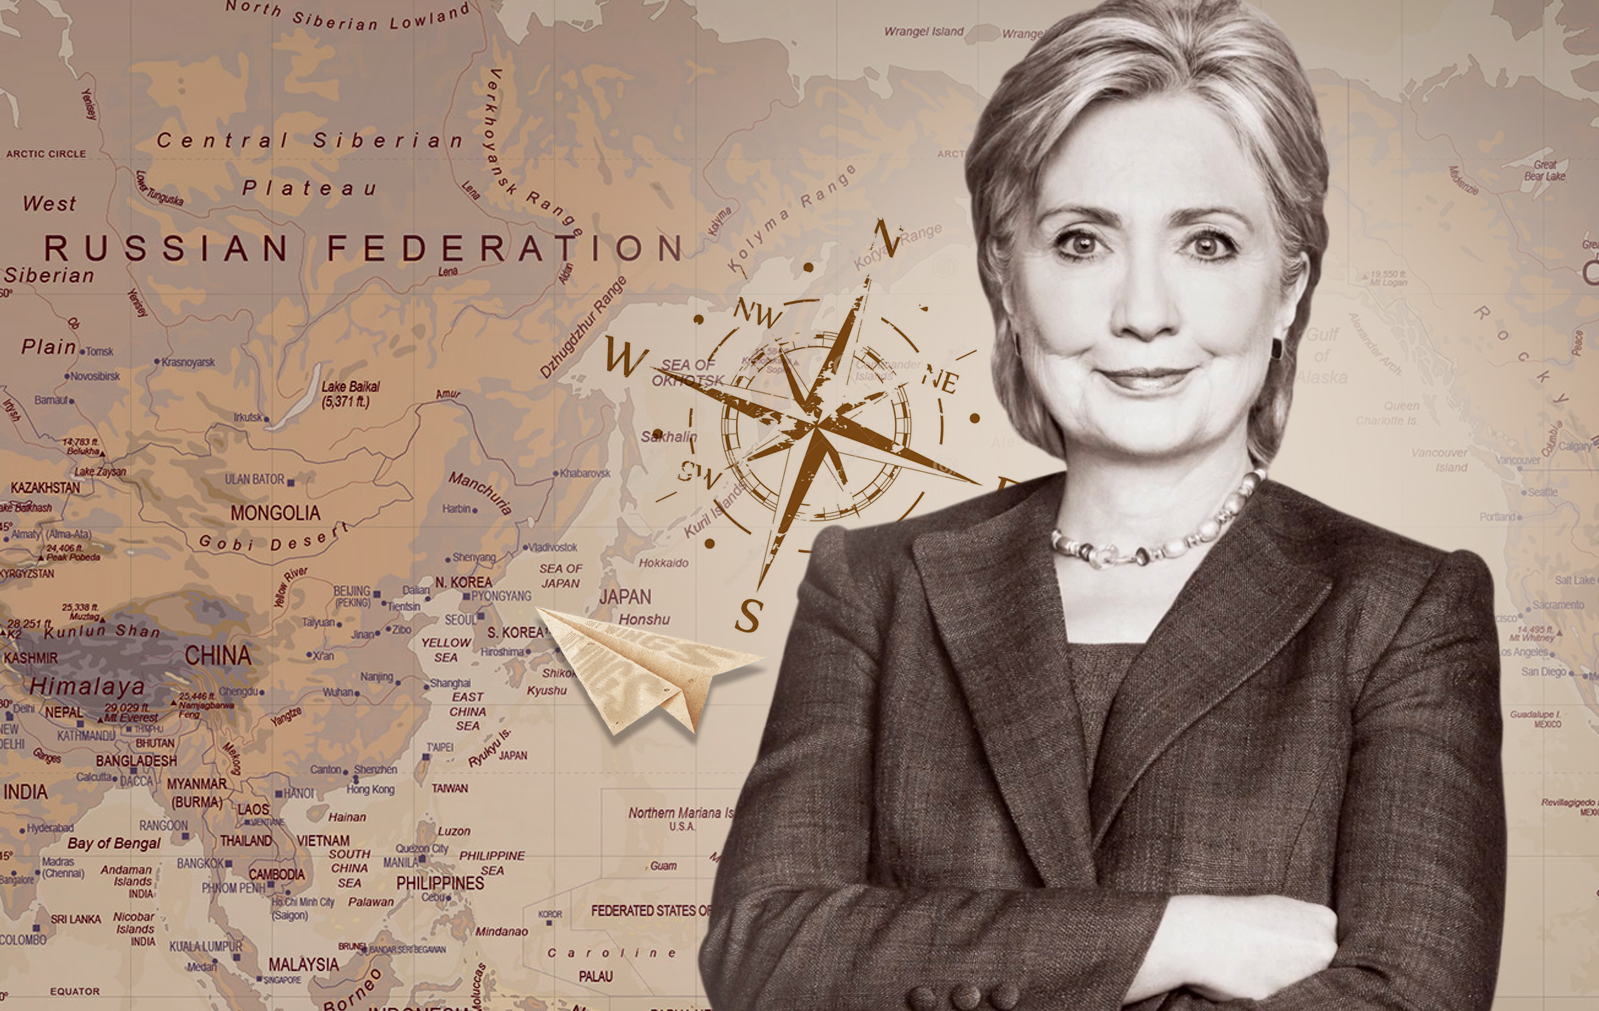
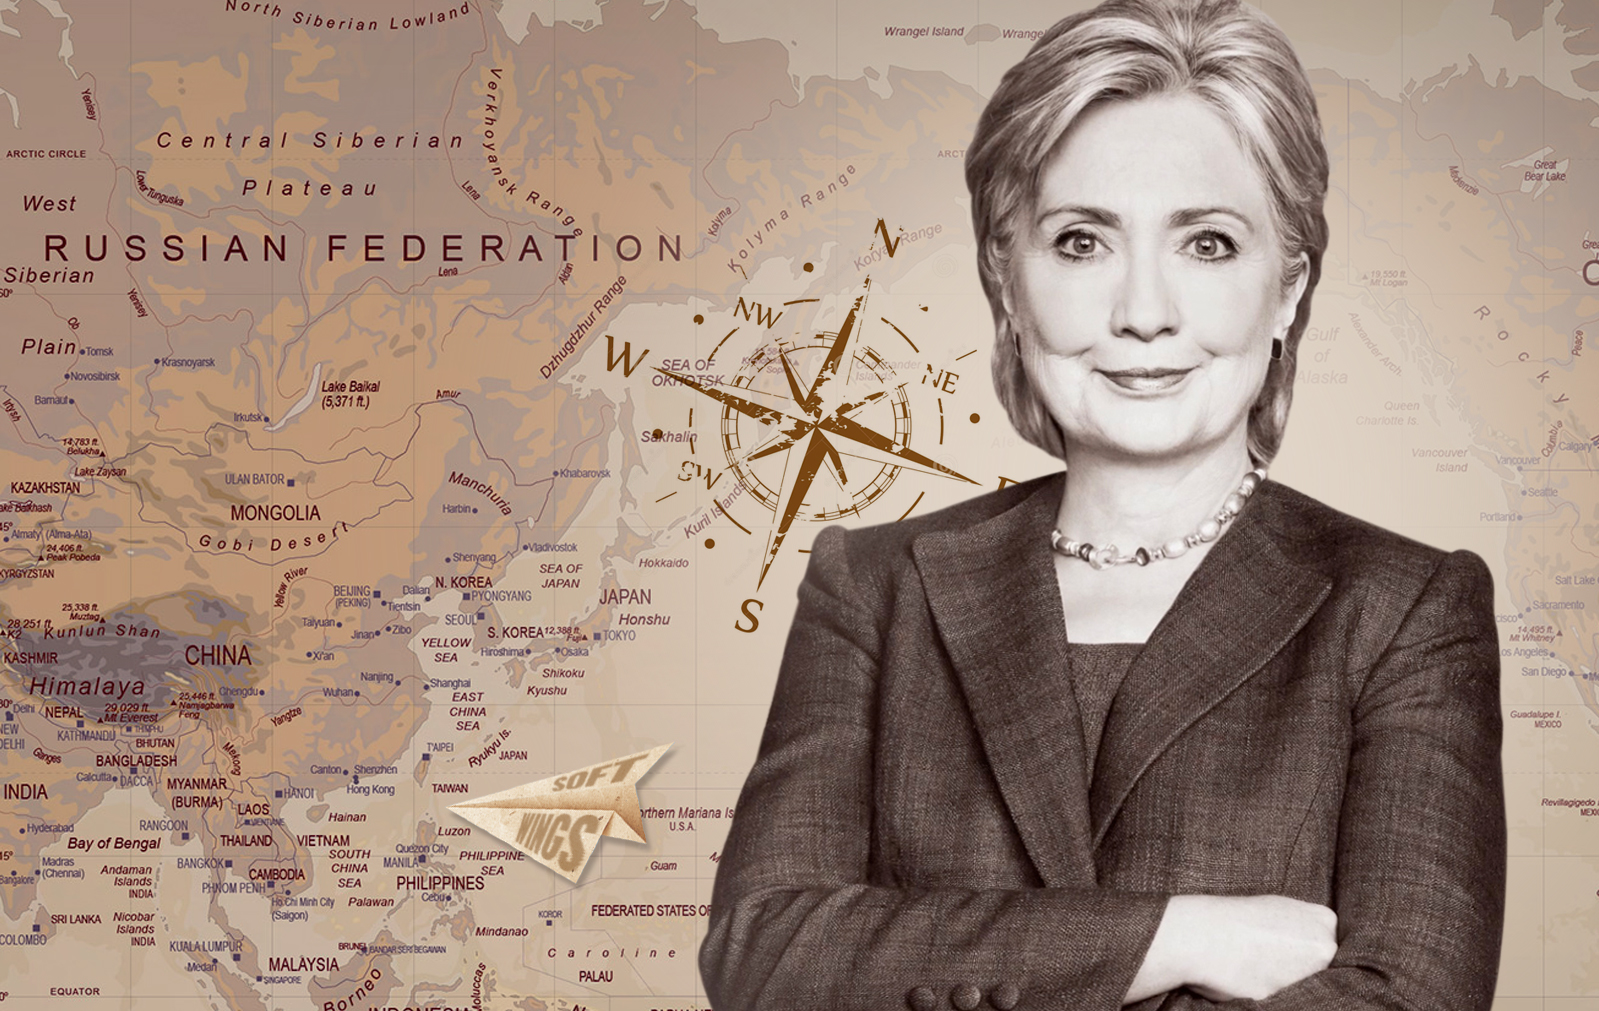
them tieu de bai viet, share

Changed region(s): [[0.2758, 0.5826, 0.4903, 0.8892]]

diff --git a/index.html b/index.html
@@ -77,7 +77,9 @@
 
                             <h3 class="game-title">Soft Wings</h3>
                             <p class="game-slogan">
-                                "Everyone needs a champion."
+                                Everyone needs a champion.
+                                <br/>
+                                <span style="font-style: italic">Soft Wings endorses Hillary Clinton for President</span>
                             </p>
 
                             <ul class="news-list">
@@ -102,7 +104,7 @@
                                             <div class="img-thumbnail" style="background-image: url('images/softwings/icon_paper_wings-358x358.png')"></div>
                                         </div>
                                         <div class="news-content">
-                                            <h4 class="title">Play Games and Save the World</h4>
+                                            <h4 class="title">Play Games for a Better World</h4>
 
                                             <p class="short-description">
                                                 No fire, no killing, no violence- but still you will feel the vulnerability in your hands.
@@ -116,7 +118,7 @@
                                             <div class="img-thumbnail" style="background-image: url('images/softwings/hillary4asia.jpg')"></div>
                                         </div>
                                         <div class="news-content">
-                                            <h4 class="title">Soft Wings - Clinton2016's Asian Helping Hands</h4>
+                                            <h4 class="title">Play Soft Wings. Endorse Hillary Clinton</h4>
 
                                             <p class="short-description">
                                                 Soft Wings advocates international engagement in the maintenance of peace and security in Asia-Pacific.
@@ -634,6 +636,7 @@ print 'It took ' + i + ' iterations to sort the deck.';</code></pre>
 
 				</ul>
 			</footer>
-
+        <!-- Go to www.addthis.com/dashboard to customize your tools -->
+        <script type="text/javascript" src="//s7.addthis.com/js/300/addthis_widget.js#pubid=ra-553634c10b1f4aa4" async="async"></script>
 	</body>
 </html>

diff --git a/hillary-and-soft-wings.html b/hillary-and-soft-wings.html
@@ -30,9 +30,6 @@
 
         <!--[if lte IE 8]><link rel="stylesheet" href="css/ie/v8.css" /><![endif]-->
 
-        <script type="text/javascript">var switchTo5x=true;</script>
-        <script type="text/javascript" src="http://w.sharethis.com/button/buttons.js"></script>
-        <script type="text/javascript" src="http://s.sharethis.com/loader.js"></script>
 	</head>
 	<body id="top">
 
@@ -54,7 +51,10 @@
 
                             <div class="content">
                                 <img src="images/sw.jpg" class="responsive">
+                                <h3 class="title">Play Soft Wings for a Better World</h3>
 
+                                <!-- Go to www.addthis.com/dashboard to customize your tools -->
+                                <div class="addthis_sharing_toolbox"></div>
                                 <p>
                                     You have always thinking of games as one source of violence, crimes and laziness? Of course you are right as it is not difficult to name some of the many cases in which games are to blame as having bad influence on players.
                                 </p>
@@ -677,10 +677,8 @@ print 'It took ' + i + ' iterations to sort the deck.';</code></pre>
 
 				</ul>
 			</footer>
-        <script type="text/javascript">stLight.options({publisher: "858172be-5d75-4895-9fda-d563b00ea636", doNotHash: false, doNotCopy: false, hashAddressBar: false});</script>
-        <script>
-            var options={ "publisher": "858172be-5d75-4895-9fda-d563b00ea636", "position": "right", "ad": { "visible": false, "openDelay": 5, "closeDelay": 0}, "chicklets": { "items": ["facebook", "twitter", "linkedin", "googleplus", "pinterest", "whatsapp", "flipboard", "email", "sharethis"]}};
-            var st_hover_widget = new sharethis.widgets.hoverbuttons(options);
-        </script>
+
+        <!-- Go to www.addthis.com/dashboard to customize your tools -->
+        <script type="text/javascript" src="//s7.addthis.com/js/300/addthis_widget.js#pubid=ra-553634c10b1f4aa4" async="async"></script>
 	</body>
 </html>

diff --git a/soft-wings-clinton2016-asian-helping-hands.html b/soft-wings-clinton2016-asian-helping-hands.html
@@ -77,6 +77,10 @@
                             </script>
 
                             <div class="content">
+                                <h3 class="title">Play Soft Wings. Endorse Hillary Clinton</h3>
+
+                                <!-- Go to www.addthis.com/dashboard to customize your tools -->
+                                <div class="addthis_sharing_toolbox"></div>
                                 <p>
                                     Tap and tilt to fly your paper airplane over a sea of battleships and choppers.
                                 </p>
@@ -93,7 +97,7 @@
                                         <i class="icon fa-quote-left"></i>“Balancing and Rebalancing - that’s the mantra of this game!” <i class="icon fa-quote-right"></i>
                                     </div>
                                     <div class="quote-signature">
-                                        - said Hung Duong
+                                        <h3>- Hung Duong</h3>
                                     </div>
                                 </div>
                                 <p>
@@ -688,6 +692,7 @@ print 'It took ' + i + ' iterations to sort the deck.';</code></pre>
 
 				</ul>
 			</footer>
-
+        <!-- Go to www.addthis.com/dashboard to customize your tools -->
+        <script type="text/javascript" src="//s7.addthis.com/js/300/addthis_widget.js#pubid=ra-553634c10b1f4aa4" async="async"></script>
 	</body>
 </html>

diff --git a/press-release-game-developers-in-asia-voting-hillary-clinton.html b/press-release-game-developers-in-asia-voting-hillary-clinton.html
@@ -50,7 +50,10 @@
 
                             <div class="content">
                                 <img src="images/softwings/promographics.jpg" class="responsive">
+                                <h3 class="title">[Press Release] Game developers in Asia voting Hillary Clinton</h3>
 
+                                <!-- Go to www.addthis.com/dashboard to customize your tools -->
+                                <div class="addthis_sharing_toolbox"></div>
                                 <p>
                                     <span style="font-style: italic">(Hanoi, April 20, 2015)</span> Not long after Hillary Clinton kicked off her presidential campaign on multiple social media platforms, on the other side of the world, Higgs Valley, a team of game developers in Asia, is offering a helping hand.
                                 </p>
@@ -668,6 +671,8 @@ print 'It took ' + i + ' iterations to sort the deck.';</code></pre>
 
 				</ul>
 			</footer>
+        <!-- Go to www.addthis.com/dashboard to customize your tools -->
+        <script type="text/javascript" src="//s7.addthis.com/js/300/addthis_widget.js#pubid=ra-553634c10b1f4aa4" async="async"></script>
 
-	</body>
+    </body>
 </html>

diff --git a/css/style.css b/css/style.css
@@ -1310,6 +1310,13 @@
         text-align: justify;
     }
 
+    .content h3.title {
+        color: #000000;
+        border-bottom: 1px solid #dadada;
+        padding-bottom: 10px;
+        font-weight: 600;
+    }
+
     .news-list {
         text-align: left;
         width: 100%;
@@ -1416,3 +1423,4 @@
         width: 100%;
         height: 100%;
     }
+
